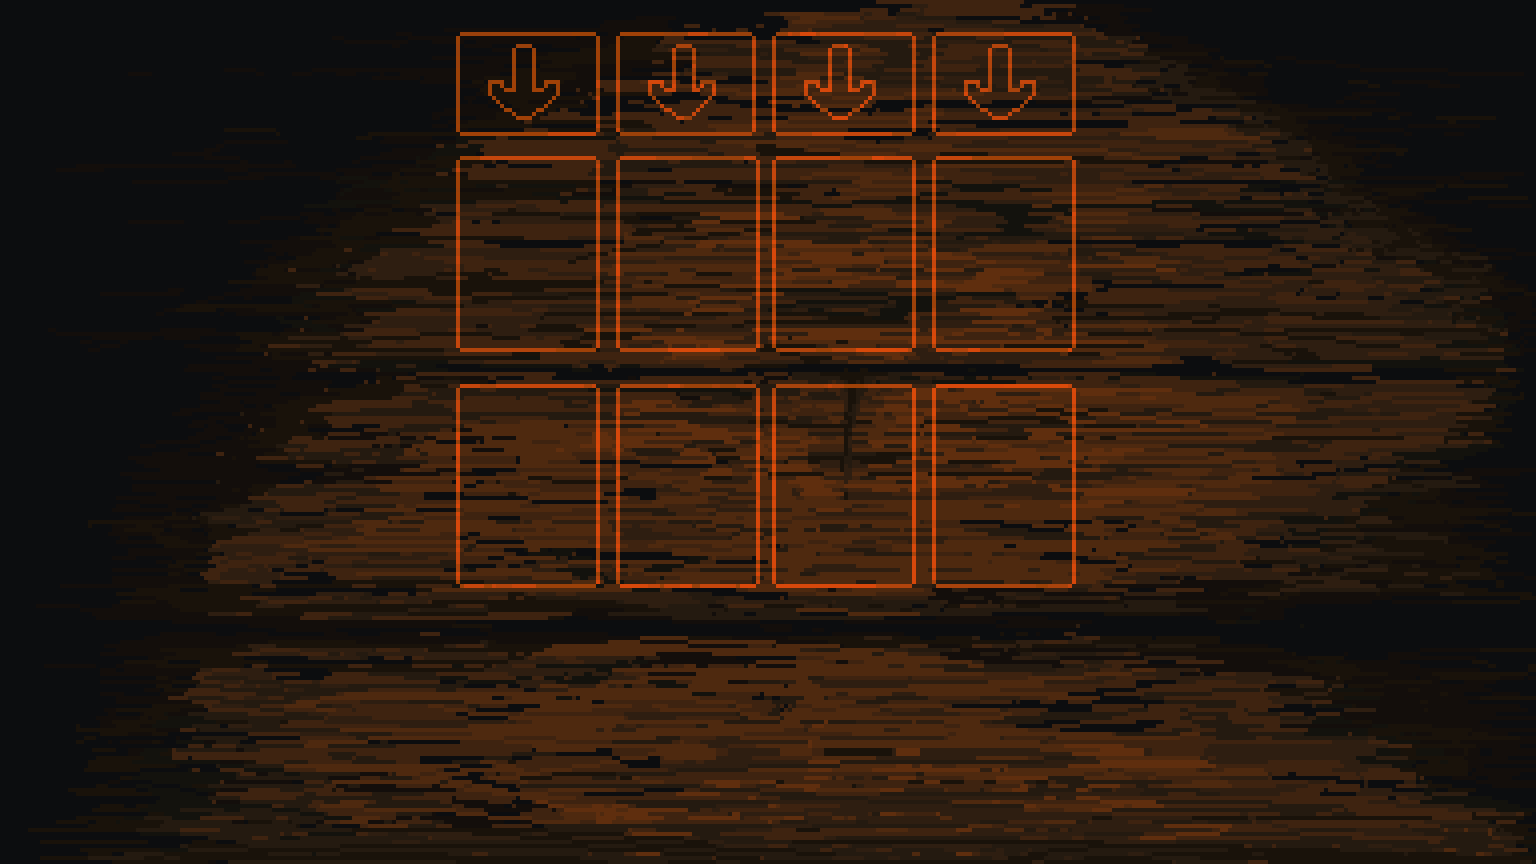
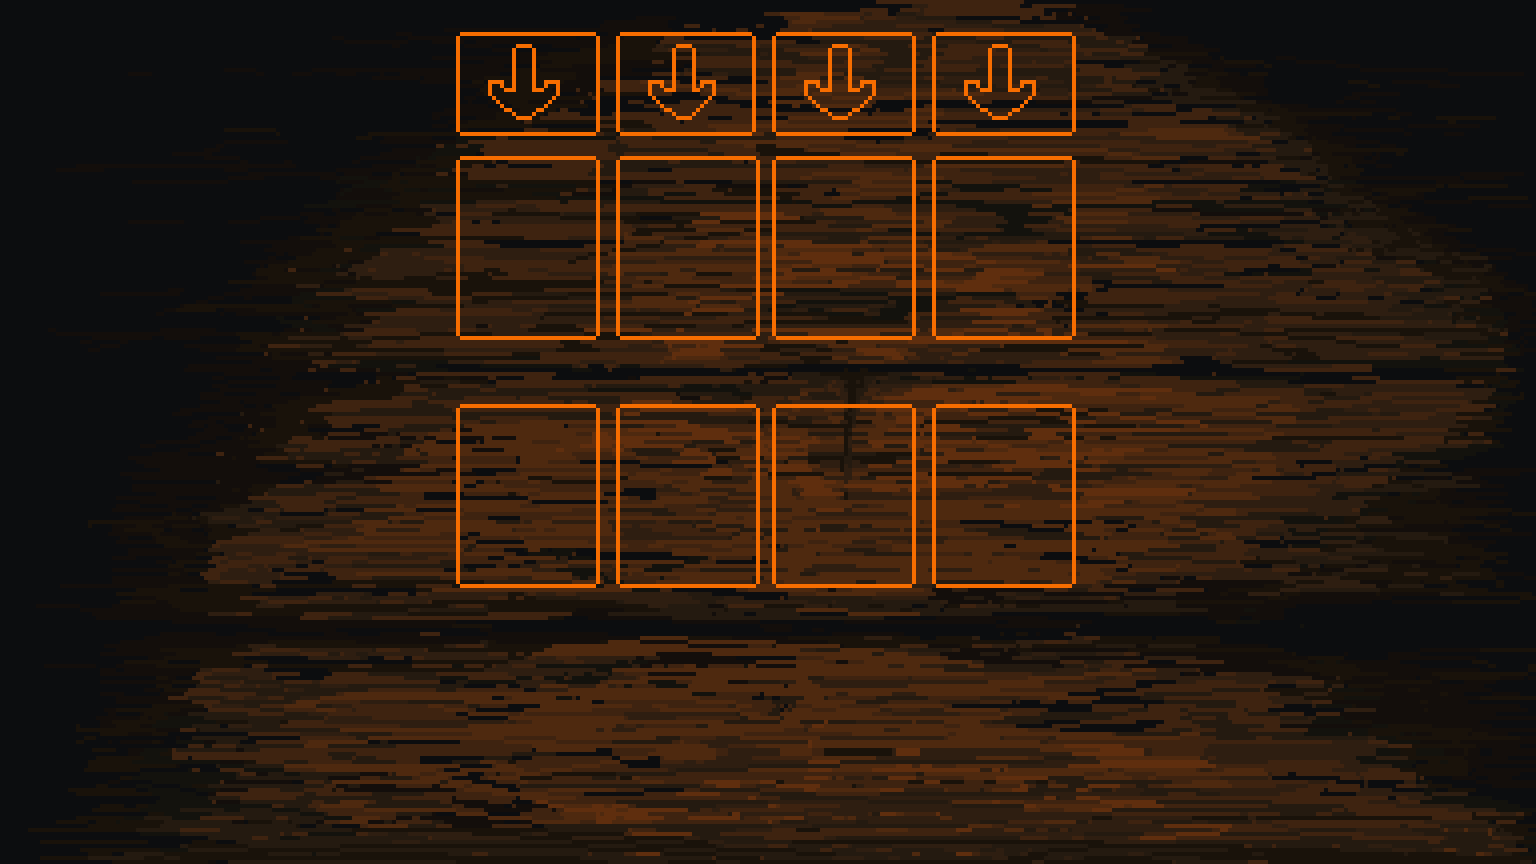
assets, ajuste do enquadramento. apaguei o desenho de retangulo, pois ja possui o de fundo no asset do fundo. ajustei varias coisas que nem sei mais

Changed region(s): [[0.2812, 0.0312, 0.7188, 0.4062], [0.2812, 0.4375, 0.7188, 0.6875]]

diff --git a/cenas/batalha.py b/cenas/batalha.py
@@ -422,7 +422,7 @@ class CenaCombate(CenaBase):
                     self.progresso_ataque = 0.0
                     self.dano_aplicado = False
 
-        # --- CONSTRUÇÃO DE RECTs DINÂMICOS ---
+        # Construção dos retangulos
         self.hitboxes_vida.clear()
         pos_x_vida, pos_y_vida, tamanho_vida, espacamento_vida = 145, 505, 80, 20
         for i in range(self.vida_player):
@@ -434,14 +434,18 @@ class CenaCombate(CenaBase):
         self.hitboxes_slots_espera.clear()
         
         pos_x_slot = 458
-        largura_padrao, altura_padrao = 140, 190
-        altura_mini = 81 
-
+        y_espera = 62
+        y_inimigos = 158
+        y_aliados = 408
+        
+        espacamento_horizontal = 160
+        largura_padrao, altura_padrao = 144, 176 
+        altura_mini = 81
         for i in range(4):
-            self.hitboxes_slots_espera.append((pygame.Rect(pos_x_slot, 62, largura_padrao, altura_mini), i))
-            self.hitboxes_slots_inimigos.append((pygame.Rect(pos_x_slot, 158, largura_padrao, altura_padrao), i))
-            self.hitboxes_slots_aliados.append((pygame.Rect(pos_x_slot, 386, largura_padrao, altura_padrao), i))
-            pos_x_slot += 158
+            self.hitboxes_slots_espera.append((pygame.Rect(pos_x_slot, y_espera, largura_padrao, altura_mini), i))
+            self.hitboxes_slots_inimigos.append((pygame.Rect(pos_x_slot, y_inimigos, largura_padrao, altura_padrao), i))
+            self.hitboxes_slots_aliados.append((pygame.Rect(pos_x_slot, y_aliados, largura_padrao, altura_padrao), i))
+            pos_x_slot += espacamento_horizontal
             
         self.hitboxes_itens.clear()
         pos_x_inicial_item = 1190
@@ -582,7 +586,7 @@ class CenaCombate(CenaBase):
                 self.tela.blit(txt_atk, (rect_desenho.x + 10, rect_desenho.y + 100))
 
                 txt_vida = self.fonte_cartas.render(f"{self.slots_inimigos[i].vida}", True, (54, 32, 10))
-                self.tela.blit(txt_vida, (rect_desenho.x + 108, rect_desenho.y + 148))
+                self.tela.blit(txt_vida, (rect_desenho.x + 112, rect_desenho.y + 144))
                 
         # slots cartas player
         for rect_slot, i in self.hitboxes_slots_aliados:
@@ -614,23 +618,14 @@ class CenaCombate(CenaBase):
 
             if prometida_ao_abate or esta_em_panico:
                 pygame.draw.rect(self.tela, cor_borda, rect_desenho, 8)
-            else:
-                pygame.draw.rect(self.tela, cor_borda, rect_desenho, 6 if cor_borda != (50,150,50) else 4) 
             
-            if self.slots_aliados[i]:
-                if prometida_ao_abate:
-                    cor_texto = (140, 140, 140)
-                else:
-                    cor_texto = (0,0,0) if not esta_em_panico else (255,255,255)
+            if self.slots_aliados[i] and not prometida_ao_abate:
+                cor_texto = (0,0,0) if not esta_em_panico else (255,255,255)
 
                 if self.slots_aliados[i].imagem is not None:
-                    img_campo = pygame.transform.scale(self.slots_aliados[i].imagem, (128, 178))
-                    self.tela.blit(img_campo, (rect_desenho.x + 6, rect_desenho.y + 6))
+                    self.tela.blit(self.slots_aliados[i].imagem, (rect_desenho.x, rect_desenho.y-4))                
                 else:
-                    if prometida_ao_abate:
-                        cor_corpo = (60, 63, 65) 
-                    else:
-                        cor_corpo = (255, 30, 30) if self.flash_aliado[i] > 0 else ((100, 200, 100) if not esta_em_panico else (160, 80, 80))
+                    cor_corpo = (255, 30, 30) if self.flash_aliado[i] > 0 else ((100, 200, 100) if not esta_em_panico else (160, 80, 80))
                     
                     pygame.draw.rect(self.tela, cor_corpo, rect_desenho.inflate(-12, -12))
                     txt = self.fonte_cartas.render(self.slots_aliados[i].nome, True, cor_texto)
@@ -658,7 +653,7 @@ class CenaCombate(CenaBase):
 
                 # isso aqui vai ser somente pra fazer o texto aparecer quando estiver na mão
                 txt_vida_mao = self.fonte_cartas.render(f"{carta.vida}", True, (54, 32, 10))
-                self.tela.blit(txt_vida_mao, (rect_carta.x + 108, rect_carta.y + 148))
+                self.tela.blit(txt_vida_mao, (rect_carta.x + 112, rect_carta.y + 144))
                 
         if self.index_foco is not None and self.index_foco < len(self.hitboxes_mao):
             rect_foco, carta_foco, _ = self.hitboxes_mao[self.index_foco]
@@ -675,16 +670,22 @@ class CenaCombate(CenaBase):
             
             # esse daqui é quando o mouse tá em cima  
             txt_vida_foco = self.fonte_cartas.render(f"{carta_foco.vida}", True, (54, 32, 10))
-            self.tela.blit(txt_vida_foco, (rect_foco.x + 108, rect_foco.y + 148))
+            self.tela.blit(txt_vida_foco, (rect_foco.x + 112, rect_foco.y + 144))
             
-        # --- TRAJETÓRIA DE ENTRADA ---
+        #Trajetoria de entrada
         for anim in self.animacoes:
             x_anim, y_anim = anim["pos_atual"]
             rect_render_anim = pygame.Rect(x_anim, y_anim, 140, 190)
-            pygame.draw.rect(self.tela, (240, 240, 240), rect_render_anim)
-            pygame.draw.rect(self.tela, (0, 0, 0), rect_render_anim, 6)
-            txt_nome = self.fonte_cartas.render(anim["carta"].nome, True, (0,0,0))
-            self.tela.blit(txt_nome, (rect_render_anim.x + 5, rect_render_anim.y + 10))
+            carta_anim = anim["carta"]
+            
+            if carta_anim.imagem is not None:
+                self.tela.blit(carta_anim.imagem, rect_render_anim)
+            else:
+                # Se não tiver imagem, faz o quadrado branco padrão
+                pygame.draw.rect(self.tela, (240, 240, 240), rect_render_anim)
+                pygame.draw.rect(self.tela, (0, 0, 0), rect_render_anim, 6)
+                txt_nome = self.fonte_cartas.render(carta_anim.nome, True, (0,0,0))
+                self.tela.blit(txt_nome, (rect_render_anim.x + 5, rect_render_anim.y + 10))
 
         # --- BANNER DE AVISOS ---
         texto_surface = self.debug.render(self.mensagem_debug, True, (255, 255, 255))
@@ -693,9 +694,9 @@ class CenaCombate(CenaBase):
         self.tela.blit(texto_surface, rect_texto)
 
 
-# ==============================================================================
+
 # SEÇÃO PRINCIPAL DE TESTE
-# ==============================================================================
+
 if __name__ == "__main__":
     pygame.init()
     
@@ -708,24 +709,49 @@ if __name__ == "__main__":
         from fases import fases_do_jogo
         mock_dados_fase = fases_do_jogo["boss_1"]
     except ModuleNotFoundError:
+        try:
+            img_capelobo = pygame.image.load("assets/Capelobo.png").convert_alpha()
+            img_la_ursa = pygame.image.load("assets/LaUrsa.png").convert_alpha()
+            img_anhanga = pygame.image.load("assets/Anhanga.png").convert_alpha()
+            img_cobra_coral = pygame.image.load("assets/cobra_coral.png").convert_alpha()
+            img_leao = pygame.image.load("assets/leao.png").convert_alpha()
+            img_timbu = pygame.image.load("assets/timbu.png").convert_alpha()
+        except FileNotFoundError:
+            img_capelobo = None
+            img_la_ursa = None
+            img_anhanga = None
+            img_leao = None
+            img_cobra_coral = None
+            img_timbu = None
         print("fases.py não encontrado. Rodando em modo de segurança com dados locais.")
         mock_dados_fase = {
             "nome": "o lenhador brabo (Failsafe)",
             "obstaculos_iniciais": [{"slot": 2, "nome": "Tronco", "vida": 5, "dano": 0, "valor_sacrificio": 0}],
             "script_inimigo": {
-                1: [{"acao": "jogar_carta", "carta": {"nome": "Lobo", "vida": 2, "dano": 2}, "slot": 0}],
-                2: [{"acao": "jogar_carta", "carta": {"nome": "Corvo", "vida": 1, "dano": 1}, "slot": 3}],
+                1: [{"acao": "jogar_carta", "carta": {"nome": "Capelobo", "vida": 3, "dano": 1, "imagem": img_capelobo}, "slot": 0}],
+                2: [{"acao": "jogar_carta", "carta": {"nome": "timbu", "vida": 1, "dano": 1, "imagem": img_timbu}, "slot": 3}],
                 4: [{"acao": "ataque_especial", "nome": "Puxão master das trevas", "dano_direto": 1}]
             }
         }
     try:
-        img_la_ursa_original = pygame.image.load("assets/LaUrsa.png").convert_alpha()
-        img_la_ursa = pygame.transform.scale(img_la_ursa_original, (140, 190))
+
+        img_capelobo = pygame.image.load("assets/Capelobo.png").convert_alpha()
+        img_la_ursa = pygame.image.load("assets/LaUrsa.png").convert_alpha()
+        img_anhanga = pygame.image.load("assets/Anhanga.png").convert_alpha()
+        img_cobra_coral = pygame.image.load("assets/cobra_coral.png").convert_alpha()
+        img_leao = pygame.image.load("assets/leao.png").convert_alpha()
+        img_timbu = pygame.image.load("assets/timbu.png").convert_alpha()
     except FileNotFoundError:
+        img_capelobo = None
         img_la_ursa = None
+        img_anhanga = None
+        img_leao = None
+        img_cobra_coral = None
+        img_timbu = None
 
     mock_deck_jogador = [
-        Carta(nome="La Ursa", poder=4, vida=6, imagem=img_la_ursa, custo_sangue=1, valor_sacrificio=1)
+        Carta(nome="Capelobo", poder = 1, vida=3, imagem= img_capelobo, custo_sangue=1, valor_sacrificio=1),
+        Carta(nome="La Ursa", poder=4, vida=6, imagem=img_la_ursa, custo_sangue=3, valor_sacrificio=1),
     ]
     
 